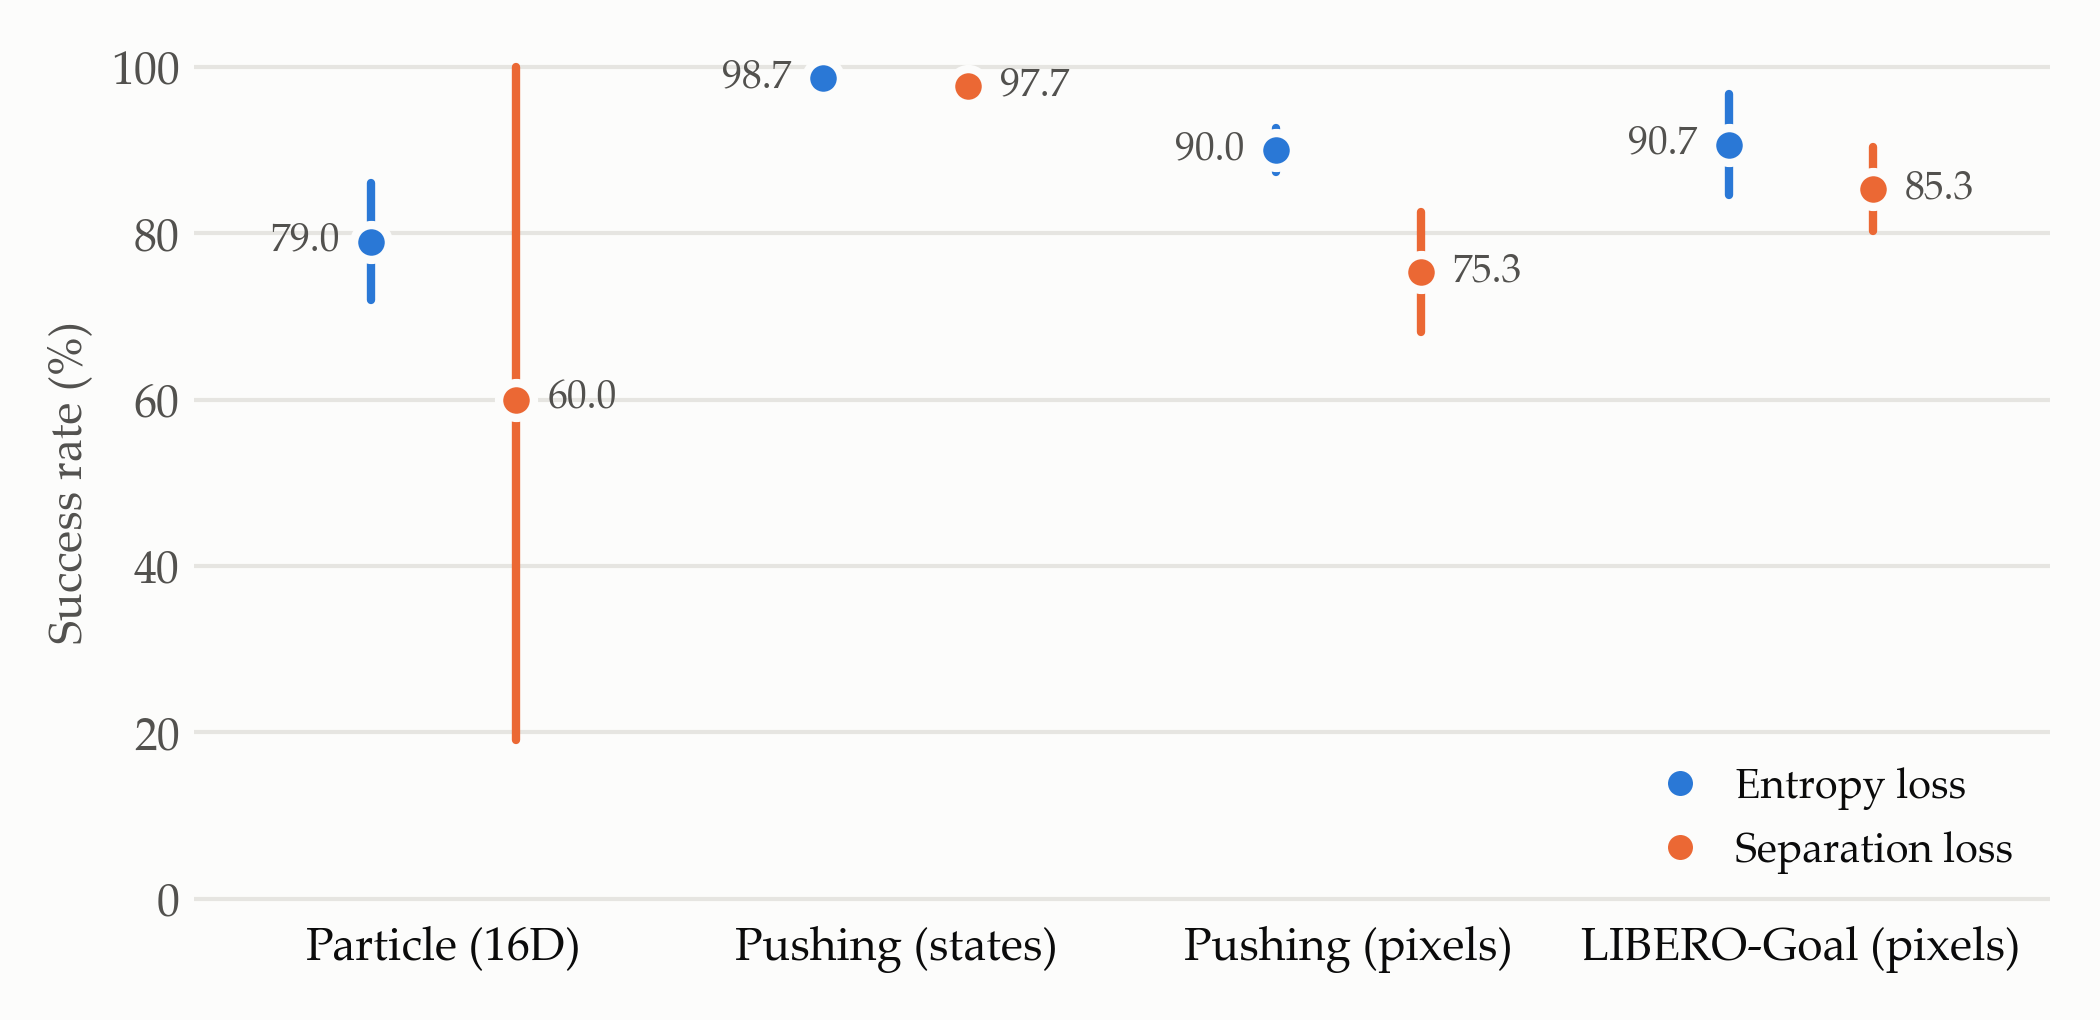
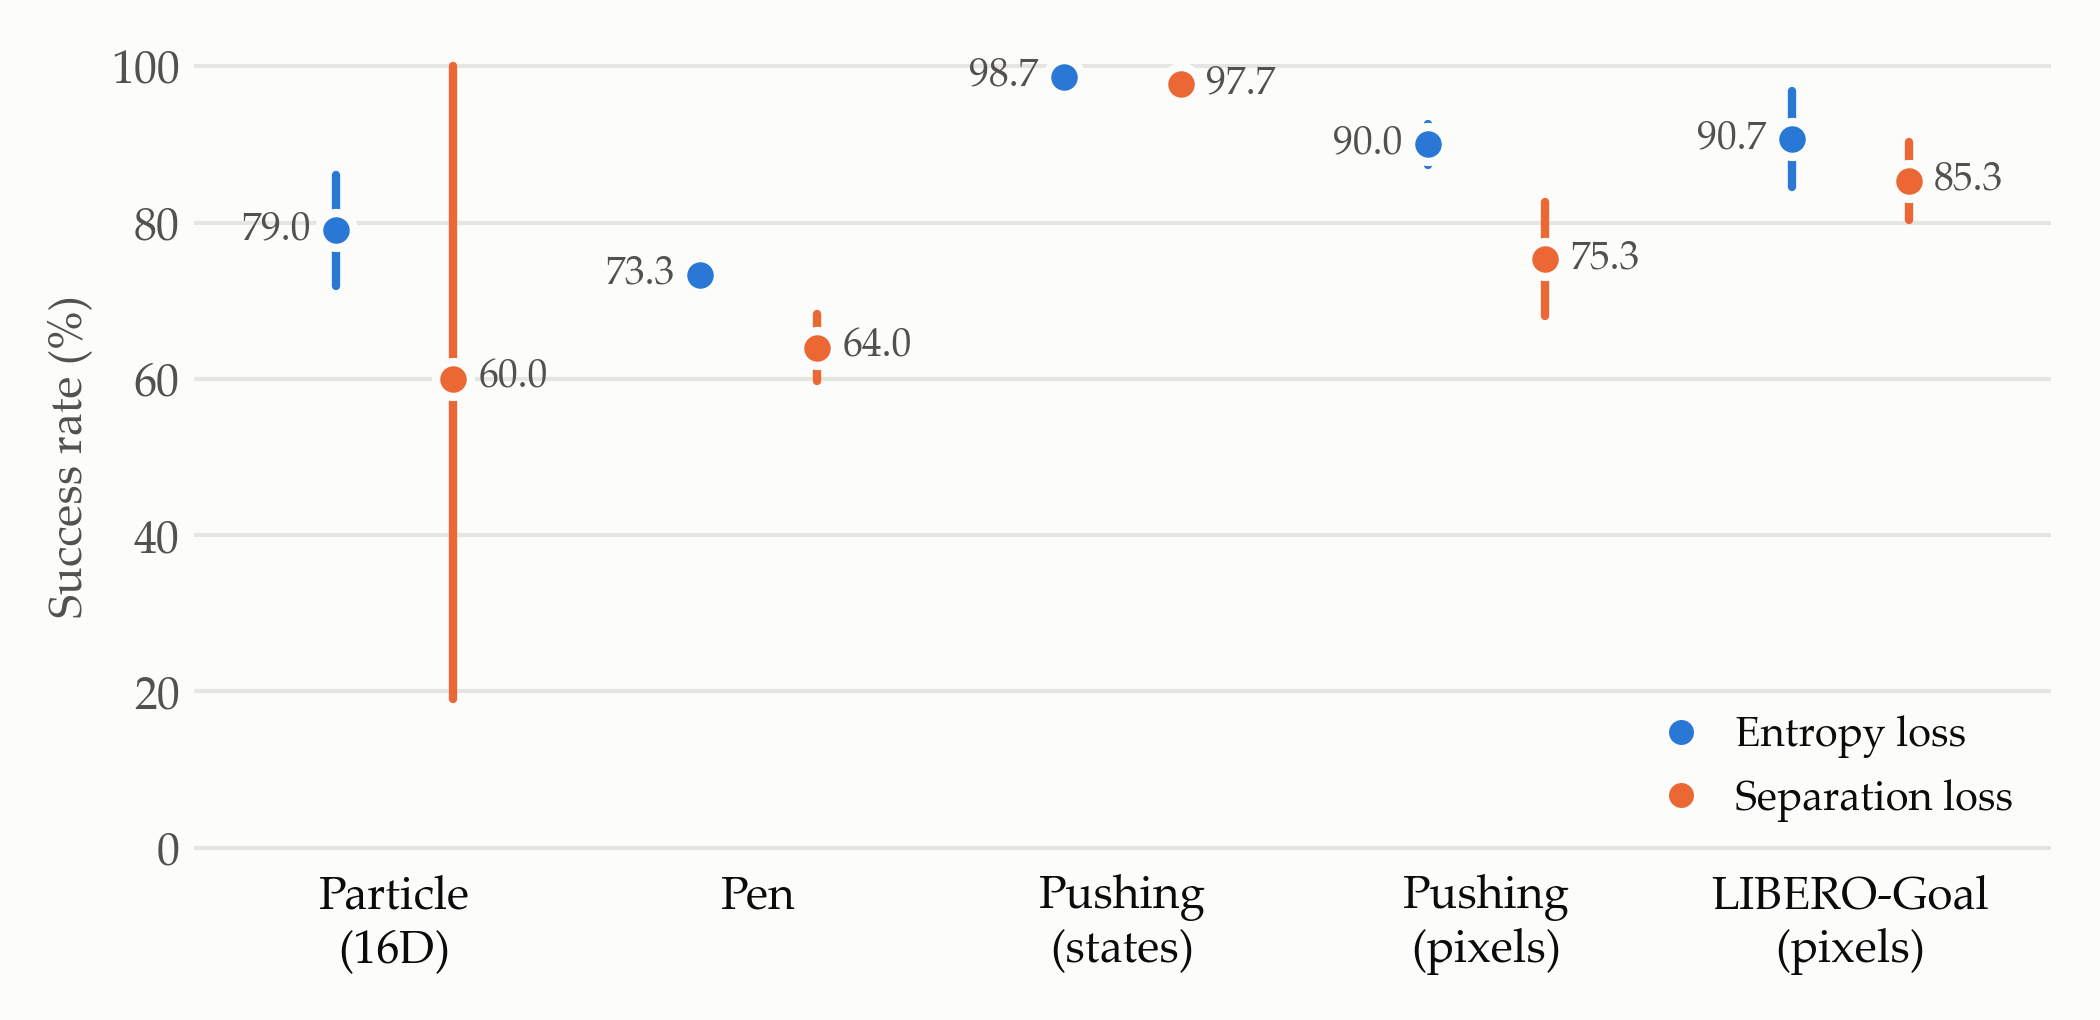
plots: add pen to separation vs entropy
results: trials 161-162 from snoopy1, pen with trial 122's recipe (N=20,
top_k 8, critic spectral norm off, 100k steps) and separation_loss=separation,
seeds 0-1 (61 %, 67 %), trained after the auto-suggest fix.

scripts/plot_ablation_separation.py: Pen group (second, after particle).
Entropy arm = every scored run sharing trial 122's exact params except the seed
(trials 122-124: 74/74/72 %), separation arm = penSeparation.txt. Pen: entropy
73.3 +/- 1.2, separation 64.0 +/- 4.2. Tick labels split before "(" so five
groups stay legible at the paper's column width.

diff --git a/scripts/plot_ablation_separation.py b/scripts/plot_ablation_separation.py
@@ -9,6 +9,8 @@ compact, untitled paper figure set in Palatino Linotype (PNG + PDF).
   Pushing / LIBERO: one-at-a-time ablation batches; the reference arm trains with
                     separation_loss="entropy", the "separation_loss=separation" arm
                     changes only that key.
+  Pen:              trial 122's recipe (N=20, critic spectral norm off); entropy = the
+                    runs sharing its params (seeds 0-2), separation = penSeparation.
   Particle (16D):   the N=5 runs of the N-sweep batch plus nsweepParticle16SepSeeds
                     (argmax recipe), entropy vs
                     separation at identical fixed params, every scored seed of each arm.
@@ -100,7 +102,30 @@ def load_nsweep_arms(batches: tuple[str, ...], env: str, n_cp: int) -> tuple[dic
     return as_percent(arms["entropy"]), as_percent(arms["separation"])
 
 
+def load_pen_arms(sep_batch: str, env: str, ref_trial: int) -> tuple[dict, dict]:
+    """Pen: separation seeds from their batch lines; entropy = every scored run sharing the
+    reference trial's exact params except the seed (trial 122's recipe, seeds 0-2)."""
+    trained = scored_records(env)
+    ref = next(r for r in trained if r["trial_id"] == ref_trial)["params"]
+    same = lambda p: {k: str(v) for k, v in p.items() if k != "trial_seed"} == {k: str(v) for k, v in ref.items() if k != "trial_seed"}
+    ent = {r["params"]["trial_seed"]: r for r in sorted(trained, key=lambda r: r["run_id"]) if same(r["params"])}
+    sep = {}
+    for line in open(ROOT / "batches" / sep_batch):
+        if line.startswith("uv run") and "--fixed-params" in line:
+            tok = shlex.split(line)
+            fp = json.loads(tok[tok.index("--fixed-params") + 1])
+            sep[fp["trial_seed"]] = match(trained, fp, f"{sep_batch} seed {fp['trial_seed']}")
+    for r in ent.values():
+        assert r["params"].get("separation_loss") == "entropy", f"{env}: entropy arm mislabeled"
+    for r in sep.values():
+        assert r["params"].get("separation_loss") == "separation", f"{env}: separation arm mislabeled"
+    if len(ent) < 2 or len(sep) < 2:
+        raise SystemExit(f"{env}: need >= 2 scored seeds per arm (entropy {sorted(ent)}, separation {sorted(sep)})")
+    return as_percent(ent), as_percent(sep)
+
+
 ENVS = [("Particle (16D)", lambda: load_nsweep_arms(("nsweepParticle16.txt", "nsweepParticle16SepSeeds.txt"), "particle/16", n_cp=5)),
+        ("Pen", lambda: load_pen_arms("penSeparation.txt", "d4rl/pen", ref_trial=122)),
         ("Pushing (states)", lambda: load_arm_values("ablPushingStates.txt", "pushing")),
         ("Pushing (pixels)", lambda: load_arm_values("ablPushingPixels.txt", "pushing_pixels")),
         ("LIBERO-Goal (pixels)", lambda: load_arm_values("ablLibero.txt", "libero_goal_pixels"))]
@@ -159,7 +184,8 @@ def main() -> int:
     ax.set_yticks(range(lo, 101, step))
     ax.set_xlim(-0.55, len(ENVS) - 0.45)
     ax.set_xticks(range(len(ENVS)))
-    ax.set_xticklabels([e[0] for e in ENVS])
+    # Two-line labels ("Pushing\n(pixels)") keep five groups legible at the paper's column width.
+    ax.set_xticklabels([e[0].replace(" (", "\n(") for e in ENVS])
     ax.set_ylabel("Success rate (%)")
     ax.grid(axis="y", color=GRID, linewidth=1, linestyle="-")
     ax.set_axisbelow(True)
